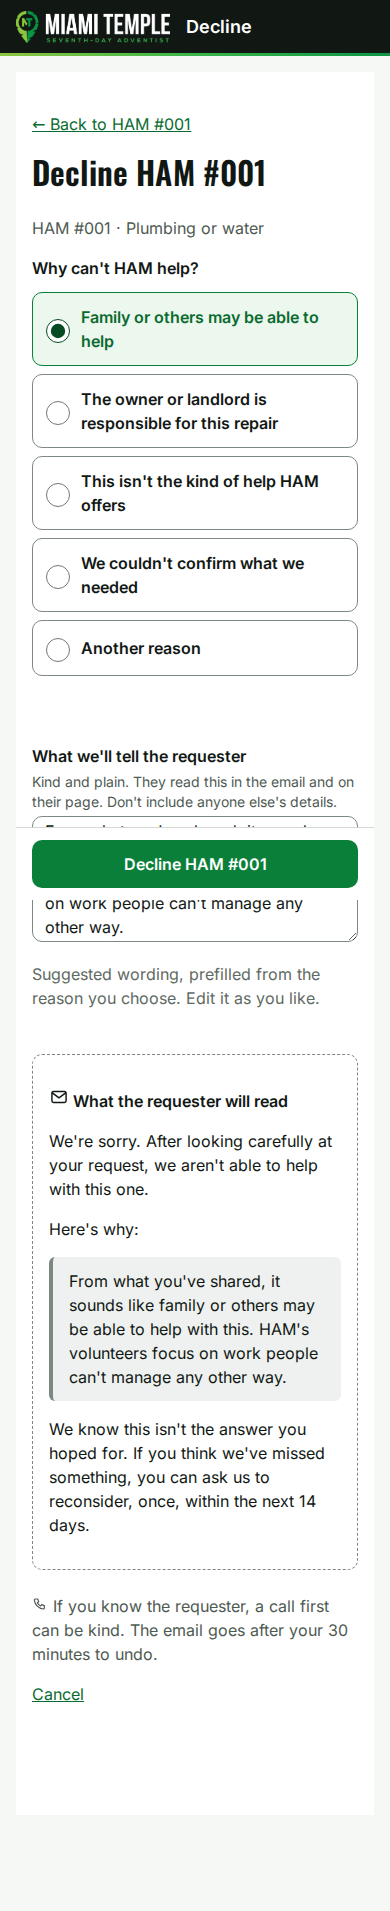
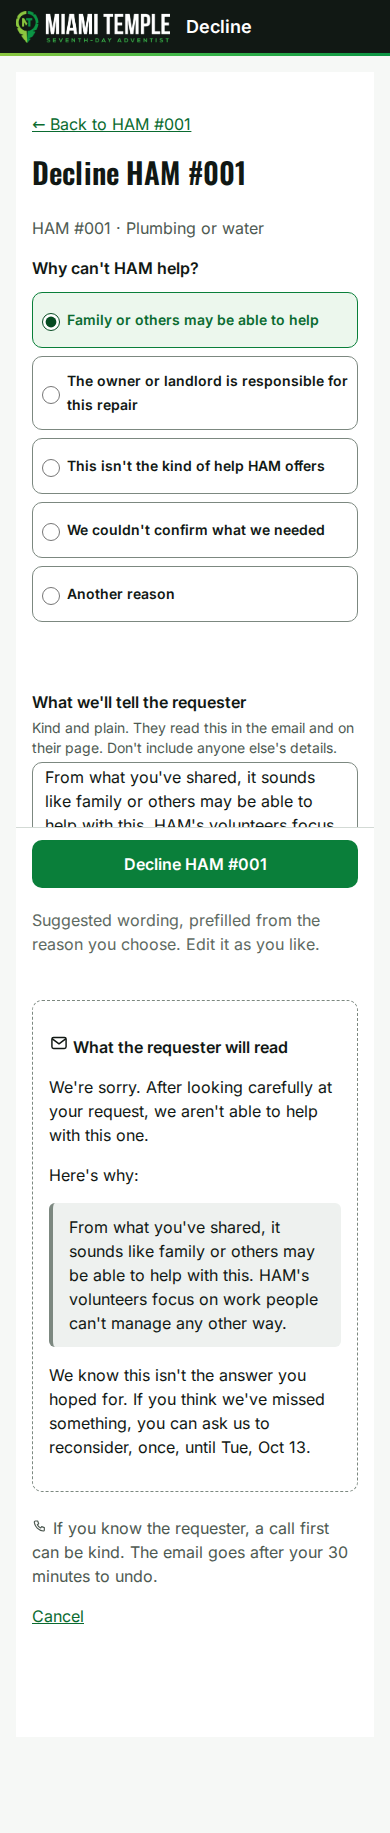
Step 3 fix pass FIX-3D: screens, round 2
Fixes step3-ui-visual-qa.md "Re-check at 089473e" items owned by this
slice:

- N1: sheet h1 no longer overflows sideways at 200% text/195px
  (overflow-wrap/hyphens + a container-sized font-size cap on
  .sheet--fullscreen).
- N2: .chip no longer breaks mid-word (overflow-wrap/word-break reset,
  same fix family as B3's .btn).
- N3: the urgent banner's Open/Got it actions are content-sized, not
  stretched, once there's real room (>=40em container query).
- B2: <form> now wraps the whole sheet body on U1, A2c, A2u, A2n, A4
  (already did), A5 and A11 (A5/A11 also merge the separate
  "Show contact details" form into the one form, with
  formnovalidate); shortened the A9 primary label so the bar stays
  <=18% at large text.
- B3 residue: the pending/undo notice's button no longer spills
  outside its own border, the leading icon drops under 22em, and the
  fixed-copy notice text wraps at word boundaries instead of
  mid-word.
- M7: A9 decline now prefills the message from
  REJECTION_REASON_PREFILLS with the same Replace/Keep behaviour as
  A3, and shows a "What the requester will read" preview in the
  final (R18b) wording, for both the original decider and a
  take-over.
- M9: dropped the hard-coded "Elder" title and fixed the take-over
  copy's double period ("Ruth A..").
- M10 residue: no more mid-word breaks on A9's "available", A12's
  "reconsider" or A6's "Something" at 200% text/195px (shrinks font,
  control size, gap and padding together under 22em).
[…]

diff --git a/tests/e2e/test_fix3d_sheets.py b/tests/e2e/test_fix3d_sheets.py
@@ -116,7 +116,9 @@ def test_a9_h1_no_sideways_scroll_at_large_text(live_server):
                         "document.addEventListener('DOMContentLoaded', () => {"
                         "document.documentElement.style.fontSize = '32px'; })"
                     )
-                page.goto(f"{live_server.url}/requests/{req.id}/reconsideration/decide?outcome=approve")
+                page.goto(
+                    f"{live_server.url}/requests/{req.id}/reconsideration/decide?outcome=approve"
+                )
                 page.wait_for_load_state("networkidle")
 
                 scroll_width = page.evaluate("document.documentElement.scrollWidth")
@@ -250,9 +252,9 @@ def test_a9_decline_prefills_message_and_shows_preview(live_server):
             message_field = page.locator("#id_reason_decline")
             assert message_field.input_value() == ""
 
-            page.locator(
-                '#recon-decline-reasons input[value="not_help_ham_offers"]'
-            ).check(force=True)
+            page.locator('#recon-decline-reasons input[value="not_help_ham_offers"]').check(
+                force=True
+            )
             page.wait_for_timeout(50)
             filled = message_field.input_value()
             assert filled != "", "message should be prefilled once a reason is picked"
@@ -286,16 +288,14 @@ def test_a9_decline_replace_keep_row_appears_on_dirty_edit(live_server):
             page.goto(f"{live_server.url}/requests/{req.id}/reconsideration/decide?outcome=decline")
             page.wait_for_load_state("networkidle")
 
-            page.locator(
-                '#recon-decline-reasons input[value="not_help_ham_offers"]'
-            ).check(force=True)
+            page.locator('#recon-decline-reasons input[value="not_help_ham_offers"]').check(
+                force=True
+            )
             page.wait_for_timeout(50)
             message_field = page.locator("#id_reason_decline")
             message_field.fill("My own carefully written note.")
 
-            page.locator(
-                '#recon-decline-reasons input[value="couldnt_confirm"]'
-            ).check(force=True)
+            page.locator('#recon-decline-reasons input[value="couldnt_confirm"]').check(force=True)
             page.wait_for_timeout(50)
 
             assert message_field.input_value() == "My own carefully written note."

diff --git a/tests/e2e/test_fix3d_mid_word_breaks.py b/tests/e2e/test_fix3d_mid_word_breaks.py
@@ -92,12 +92,8 @@ def test_a12_reconsider_word_no_mid_word_break(live_server, width, height):
     pastor, req = _make_awaiting_request_and_pastor()
 
     from ham.authz import roles
-    from ham.authz.context import ActorContext, RequesterContext
-    from ham.platform.clock import FixedClock, SystemClock, set_clock
-    from ham.platform.clock import now as clock_now
+    from ham.authz.context import ActorContext
     from ham.requests.services_decisions import reject_request
-    from ham.rules import RULES
-    import datetime as dt
 
     ctx = ActorContext(
         user_id=pastor.id,
@@ -165,6 +161,8 @@ def test_a6_something_word_no_mid_word_break(live_server):
 def test_a9_available_word_no_mid_word_break(live_server):
     """M10: "available" (in "Ruth Alvarez isn't available to decide this.") must not break
     mid-word at 195px, on the take-over statement card."""
+    import datetime as dt
+
     from playwright.sync_api import sync_playwright
 
     from ham.authz import roles
@@ -173,7 +171,6 @@ def test_a9_available_word_no_mid_word_break(live_server):
     from ham.platform.clock import now as clock_now
     from ham.requests.services_decisions import reject_request, request_reconsideration
     from ham.rules import RULES
-    import datetime as dt
 
     pastor, req = _make_awaiting_request_and_pastor(full_name="Ruth Alvarez")
     ctx = ActorContext(

diff --git a/tests/web/test_fix3d_form_wrap.py b/tests/web/test_fix3d_form_wrap.py
@@ -27,8 +27,7 @@ def _make_awaiting_request_and_pastor(full_name="Ruth Alvarez", *, urgent=False,
 
     kwargs = dict(
         full_name="Fictional Requester",
-        description="Water comes through the bedroom ceiling when it rains "
-        "(fictional test data).",
+        description="Water comes through the bedroom ceiling when it rains (fictional test data).",
     )
     if urgent:
         kwargs["urgent_requested"] = True
@@ -62,7 +61,7 @@ def _login(client, user):
     session.save()
 
 
-def _assert_form_wraps_body(content, *, intro_marker, bar_marker="class=\"action-bar\""):
+def _assert_form_wraps_body(content, *, intro_marker, bar_marker='class="action-bar"'):
     form_start = content.index("<form")
     intro_pos = content.index(intro_marker)
     bar_pos = content.index(bar_marker)

diff --git a/tests/e2e/test_fix3d_bar_pinning_and_copy.py b/tests/e2e/test_fix3d_bar_pinning_and_copy.py
@@ -81,9 +81,7 @@ def test_u1_form_wraps_the_whole_sheet_body():
     session = client.session
     session["ham_mfa_satisfied"] = True
     session.save()
-    response = client.get(
-        f"/requests/{req.id}/decision/undo", {"approval_id": str(approval.id)}
-    )
+    response = client.get(f"/requests/{req.id}/decision/undo", {"approval_id": str(approval.id)})
     content = response.content.decode()
 
     form_start = content.index("<form")

diff --git a/.claude/agent-memory/ham-frontend-engineer/conventions.md b/.claude/agent-memory/ham-frontend-engineer/conventions.md
@@ -775,3 +775,81 @@
   template change needed. Also handed back: M6/M7/M9 (decline preview WYSIWYG, dual-role route
   preselect, hard-coded rule values/names) — explicitly FIX-3A's per the wave brief's
   file-ownership split, even though they live in files this slice otherwise owns.
+
+## Step 3 fix pass FIX-3D (step3-ui-visual-qa.md "Re-check at 089473e"), round 2
+- **CSS specificity beats source order for `@container`/`@media` overrides.** Adding
+  `container-type: inline-size` to a wider ancestor (`.sheet--fullscreen`, for N1's h1 fix)
+  does make it the "nearest container" for descendants that have no closer container (e.g. a
+  standalone `.choice-card--statement` with no `.choice-grid` around it) — so a *later*
+  `@container` rule scoped to plain `.choice-card` *does* start applying to it for free. But if
+  an *earlier* rule used a more specific selector for the same property (`.sheet--fullscreen
+  .choice-card { gap: ... }`, two classes) than your new one (`.choice-card { gap: ... }`, one
+  class), the earlier-but-more-specific rule still wins regardless of source order — match or
+  exceed the existing selector's specificity, not just add a rule after it. Caught by measuring
+  the *computed* `gap`/`font-size` via Playwright (not by reading the CSS and assuming it
+  applies).
+- **M10 residue's real fix needed three numbers shrunk together, not one.** "available"/
+  "reconsider"/"Something" (9-10 letters) still broke mid-word at 195px even after the standard
+  22em choice-card padding trim, because those three sheets use standalone
+  `.choice-card--statement` (no `.choice-grid`, so it never got the icon-drop rule at all) or a
+  no-icon single-column category grid — the fixed 24px checkbox/radio + `body-lg` (18px) font
+  left only ~74px for the label, and even `break-word` will still split a word wider than its
+  available box. Fixed by shrinking, together, only inside `@container (max-width: 22em)` on
+  `.sheet--fullscreen .choice-card`: font down to `type-small` (13px), the input to 18px, gap to
+  `space-1` (4px), padding-inline to `space-1`. Verify with the geometric per-word `Range
+  .getClientRects().length` check (same one B3 introduced), not just "does it fit visually" —
+  the first two shrink attempts (16px font/20px input/space-2 gap, then still 16px font) each
+  *looked* like enough headroom by arithmetic but still measured 2 line(s) for the word.
+- **`position: sticky; bottom: 0` on the very last child of a flex column can appear "pinned"
+  at the viewport bottom on first paint even with scrollY=0**, if its containing block (the
+  `<form>`, once B2 wraps the whole sheet body in it) is taller than the viewport — sticky
+  clamps the element so its bottom never exceeds the viewport's bottom edge *within the
+  containing block's own extent*, which visually looks identical to "docked to the bottom of
+  the screen" whether or not the rest of the document is short or long. Don't assert `bar.bottom
+  >= documentHeight` (wrong — fails even on a correctly-fixed page whose content overflows one
+  screen); assert `bar.bottom >= viewportHeight - epsilon` instead. Whenever a geometric sticky
+  assertion is surprising, dump the raw `getBoundingClientRect()`/`scrollY`/computed `position`
+  first rather than trusting the first plausible-looking assertion.
+- **A submit button that only needs to POST a side-effect (e.g. "Show contact details") must
+  get `formnovalidate`** once it's merged into the same `<form>` as other `required` fields
+  (B2's A5/A11 single-form merge) — otherwise clicking it triggers the browser's native
+  required-field validation on fields that have nothing to do with that button's action, and the
+  click silently does nothing.
+- **B2's "form wraps the whole sheet body" is judged relative to A2's own established pattern,
+  not literally "every visible line."** A2/A3's `h1`/subtitle stay outside `<form>` (shell
+  chrome); everything else (quote blocks, urgency text, consequence copy, the fields, the bar)
+  goes inside. A2c/A2n/A2u had their intro `<figure>`/`<p>` sitting *before* `<form>` (same
+  visual shape as A2's *passing* case) yet were still flagged — the residual bug wasn't really
+  about which specific lines were outside the form, it was A5/A11 having a genuinely *separate*
+  sibling `<form>` for "Show contact details" (see above) and U1 never having wrapped its
+  consequence `<ul>`/deadline `<p>` in the first place. Fixed all of them the same way (move the
+  intro content inside the one `<form>`) for consistency, but the two real, different root
+  causes are worth remembering next time a QA note says "form wraps only the bar."
+- **`RequestListRow.is_final`/`.markers` are still unset in `ham.requests.queries`** as of this
+  round (grep found zero assignments) even though `requests_list.html`'s "· Final" rendering
+  (`{% if row.is_final %}`) has existed since FIX-3B — the template-side work for M3/M4 was
+  already done a round ago and needs no further template change; only the backend field
+  (blocked by this round's file-ownership split, `ham/requests/*` is FIX-3C's) is still missing.
+  Don't re-"fix" the template when a QA note says a row marker is missing — check whether the
+  template already reads the field first (`grep row.is_final` before touching
+  `requests_list.html`).
+- **M12's real per-request Home cards need `ham/requests/attention.py`** (`reconsideration_
+  cards`/`pastor_certify_card`/`decision_phone_card` are all still single-aggregate-card
+  builders, "Reconsideration for you (1)" not one card per request) — entirely inside
+  `ham/requests/*`, blocked by this round's file-ownership split. What *is* fair game and owned
+  by `ham.notifications` (a separate app, not `ham/requests/*`): the banner's own count/copy.
+  Added `urgent_banner_count_for(ctx)` next to the existing `urgent_banner_for(ctx)` in
+  `ham/notifications/services.py`, threaded through `ham.web.context_processors.shell` as
+  `urgent_banner_count`, and `_urgent_banner.html` now says "N urgent requests need you · " (N>1
+  only) and "Got it" (was "I've seen this", and dropped the always-`None` `acknowledge_label`
+  dead branch). Updating this copy required also updating `tests/e2e/test_fix3b_urgent_banner
+  .py`'s old `'button:has-text("I\'ve seen this")'` selector — grep every old string literal
+  before a copy change, not just the ones your own new tests touch.
+- **Proof-test discipline, reinforced:** every fix in this round was checked against
+  `git checkout bcb1a61 -- <paths>` (`bcb1a61`, this round's real pre-fix branch tip) before
+  trusting a "passes" result — caught two tests that looked correct on paper but actually passed
+  even pre-fix (the first draft of the U1 bar-pinning Playwright geometry test, and the first
+  draft of the N2 chip test using the Decision card's own status chip instead of the narrower L5
+  duplicate-panel chip the QA screenshot actually showed the break on) — both had to be
+  rewritten (U1 became a structural DOM-order assertion instead of a sticky-geometry one; N2
+  moved to the L5 panel with a `RequestMatch` fixture) before they were real regression guards.
